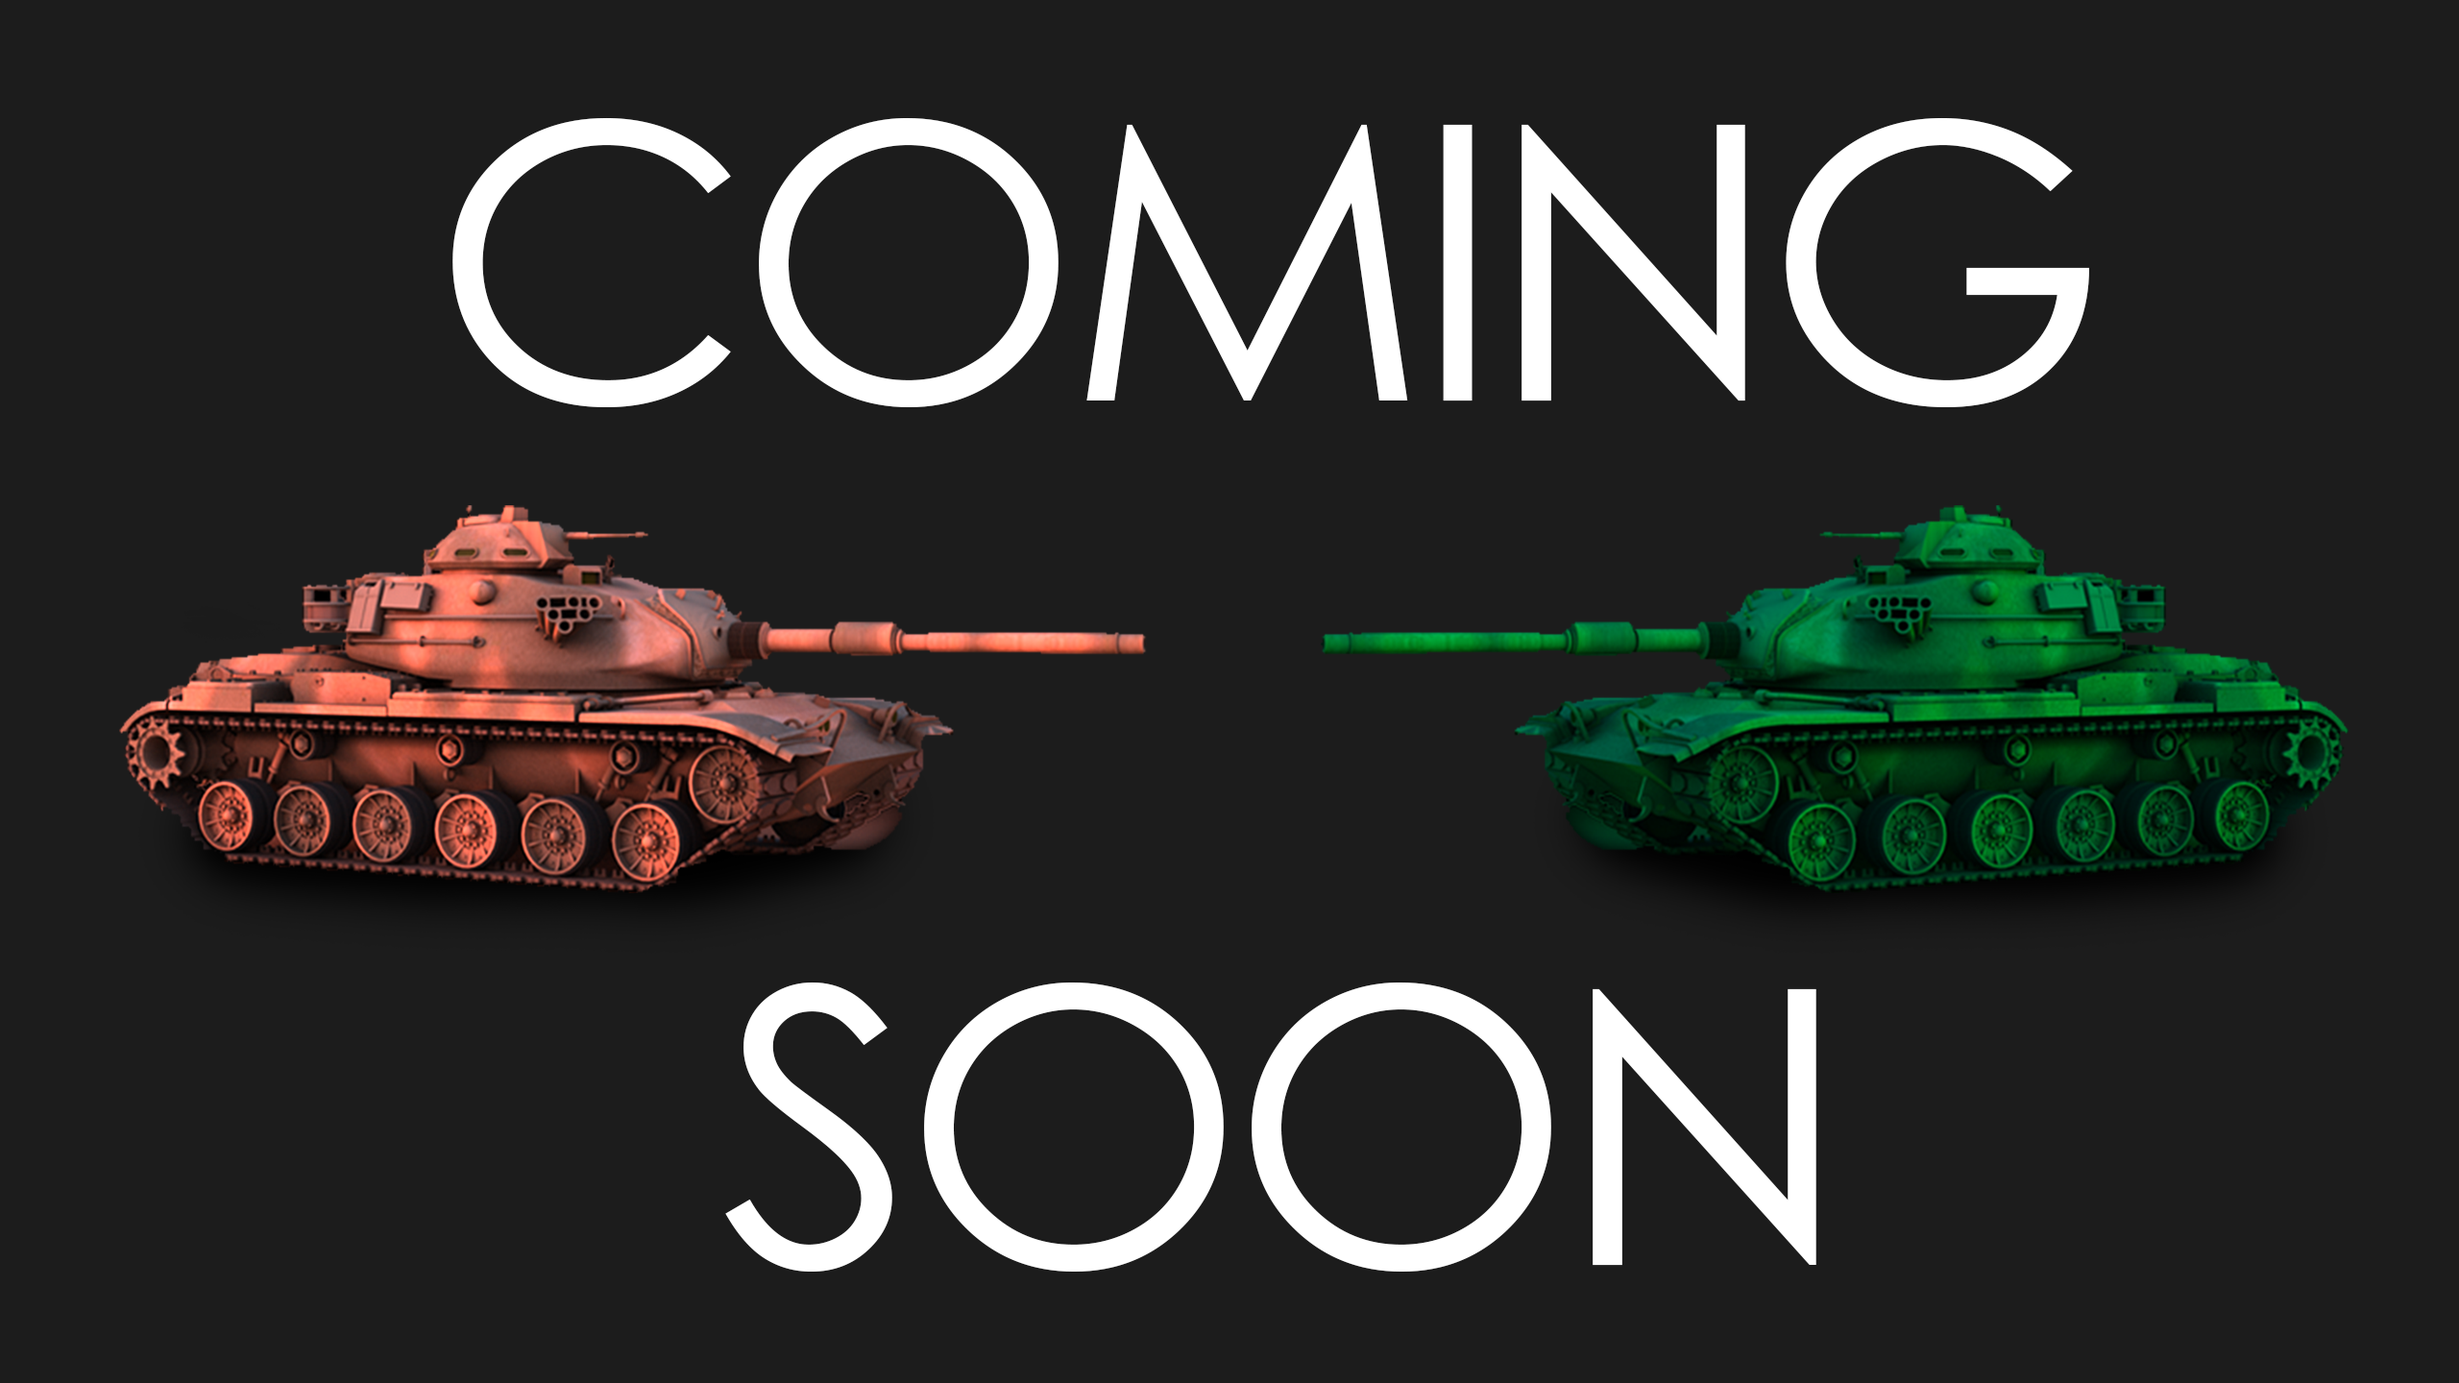
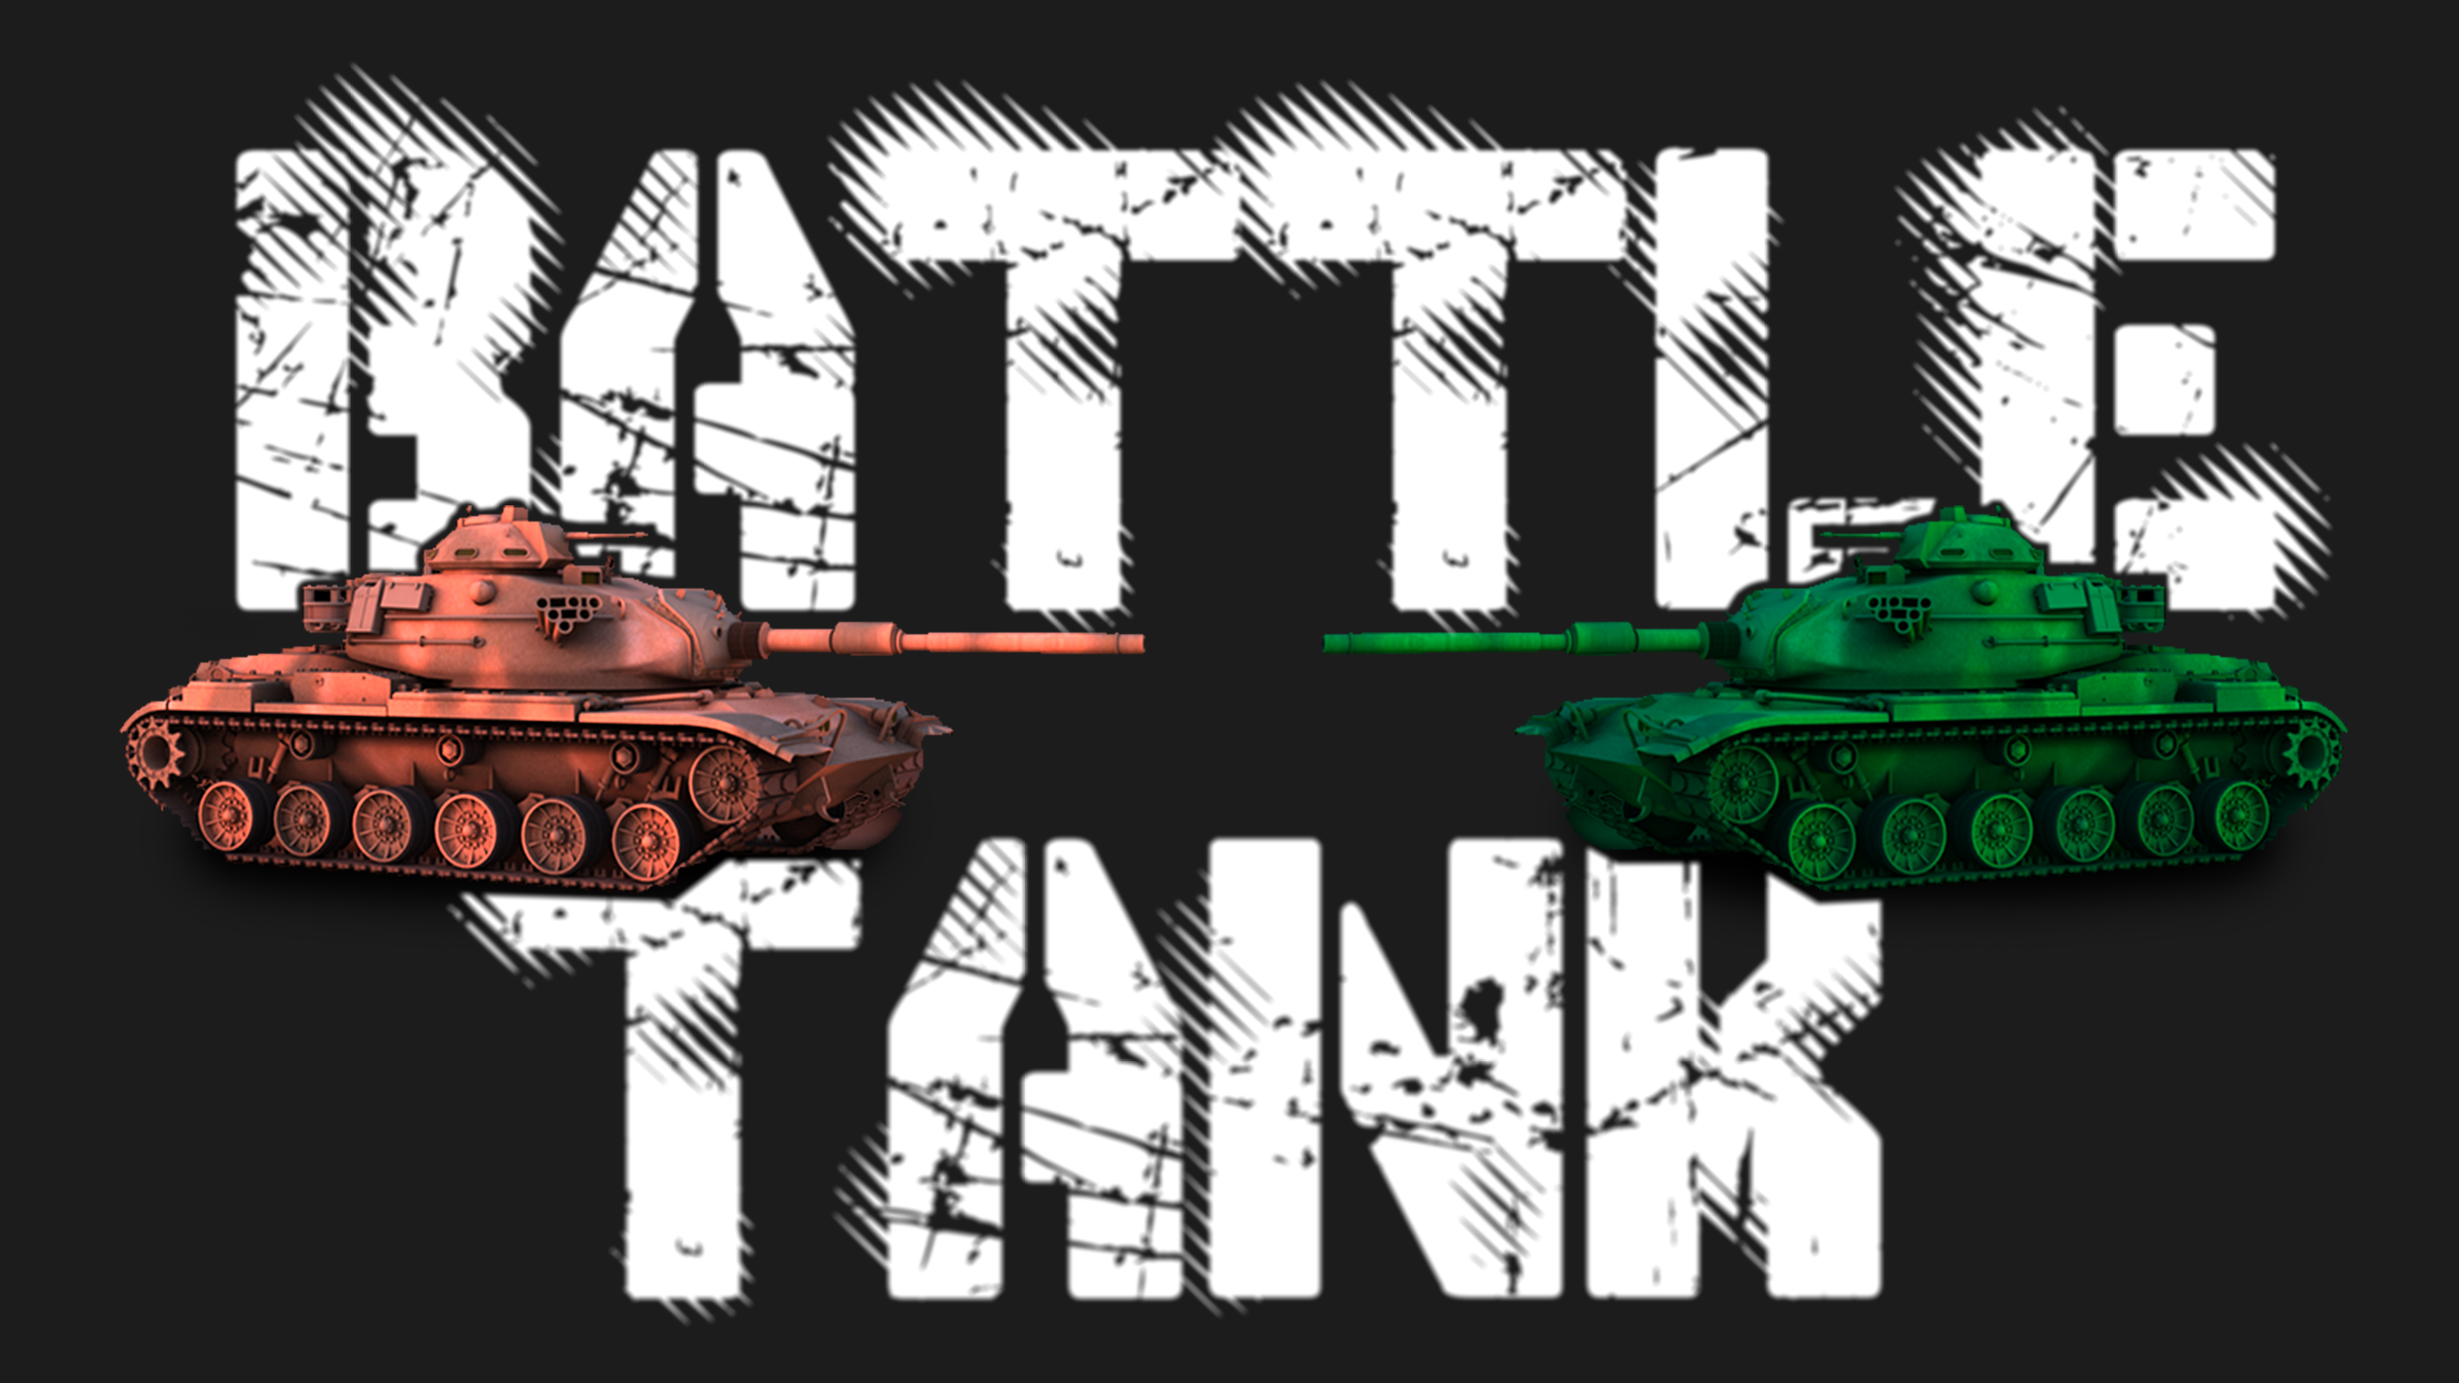
Portfolio updated

Changed region(s): [[0.0938, 0.0312, 0.9688, 0.4688], [0.1875, 0.5938, 0.7812, 0.9688]]

diff --git a/battle-tank.html b/battle-tank.html
@@ -5,7 +5,7 @@
         <meta name="viewport" content="width=device-width, initial-scale=1, shrink-to-fit=no">
         <meta name="description" content="Cesar Molto Morilla porfolio">
         <meta name="author" content="Cesar Molto Morilla">
-        <title>C&eacute;sar Molt&oacute; Morilla | Project Starfall</title>
+        <title>C&eacute;sar Molt&oacute; Morilla | Battle Tank</title>
 
         <!--Bootstrap core CSS -->
         <link href="vendor/bootstrap/css/bootstrap.css" rel="stylesheet">
@@ -55,32 +55,35 @@
 	    <div class="row align-items-center no-gutters my-4 mb-lg-4">
           <div class="col-xl-12">
             <div class="featured-text text-center text-lg-left pl-3 mt-5 pt-5 mb-2">
-              <h3>PROJECT STARFALL <!--<small>(IN DEVELOPMENT)</small>--></h3>
+              <h3>BATTLE TANK <!--<small>(IN DEVELOPMENT)</small>--></h3>
             </div>
           </div>
         </div>
 	
         <div class="row justify-content-center m-0">
 		  <div class="col-lg-7 my-auto">
-			<video poster="images/ProjectStarfall/Main.png" controls>
-				<source src="videos/ProjectStarfall/Video.mp4" type="video/mp4">
+			<video poster="images/BattleTank/Main.png" style="border: 2px solid white;">
+				<source src="" type="video/mp4">
 			</video>
 			<div class="row justify-content-center m-0 p-0 mb-3">
 				<div class="col-lg-icon icon-col">
-					<img class="img-fluid icon" src="images/Icons/Unity.png" alt="Unity Engine">
+					<img class="img-fluid icon" src="images/Icons/Unreal.png" alt="Unreal Engine">
 				</div>
 				<div class="col-lg-icon icon-col">
-					<img class="img-fluid icon" src="images/Icons/CSharp.png" alt="C#">
+					<img class="img-fluid icon" src="images/Icons/C++.png" alt="C++">
 				</div>
 				<div class="col-lg-icon icon-col">
 					<img class="img-fluid icon" src="images/Icons/Photoshop.png" alt="Photoshop CC">
-				</div>
+        </div>
+        <div class="col-lg-icon icon-col">
+          <img class="img-fluid icon" src="images/Icons/Blender.png" alt="Blender">
+        </div>
 			</div>
           </div>
 
           <div class="col-lg-5">
 			<div class="project-text w-100 text-center text-lg-left">
-				<p class="text-justify text-white-75 m-0">Project Starfall is a 2D arcade endless game where you have to dodge the different obstacles, such as asteroids or enemy lasers, by moving the main character around the map.<br><br><b class="text-orange">Platform:</b> Browser<br><b class="text-orange">Team size:</b> 1 (myself)<br><b class="text-orange">Project length:</b> 2 months<br><br><br><a class="download-play-button" href="https://staler.itch.io/project-starfall" target="_blank">PLAY IN BROWSER</a></p>
+				<p class="text-justify text-white-75 m-0">Battle Tank is an open world head-to-head tank fight game with AI controlled enemies and advanced control system created in Unreal Engine 4.<br><br> Will you be able to defeat the enemy tanks? In order to do so you will have to wisely use the strategical spots and resources distributed around the world.<br><br><b class="text-orange">Platform:</b> PC | Console<br><b class="text-orange">Team size:</b> 1 (myself)<br><b class="text-orange">Project length:</b> 2 months<br><br><br><a class="download-play-button" href="https://github.com/My-Unreal-Projects/Battle-Tank" target="_blank">SOURCE CODE</a></p>
 			</div>
           </div>
         </div>
@@ -103,7 +106,10 @@
 
 		<div class="row align-items-center no-gutters mb-lg-2">
           <div class="col-xl-12">
-				<p class="text-justify text-white-75">This project started as a challenge to myself by making a simple and funny video game from scratch in my spare time, and explore really interesting concepts such as the game feel or the juice.<br><br> The original idea of Project Starfall was inspired by the <a href="https://ldjam.com/" target="_blank">LUDUM DARE</a> games of <a href="https://www.youtube.com/watch?v=XldCg9sQYx0" target="_blank">Brakeys (LUDUM DARE 38)</a> and <a href="https://www.youtube.com/watch?v=S5Dq9t3Y5n0" target="_blank">Blackthornprod (LUDUM DARE 40)</a>.<br><br> I'm developing Project Starfall because I want the people to feel like they are playing an old arcade game but different thanks to my personal touch. Because of those reasons I'm drawing the Project Starfall assets with a pixel art style, and I'm trying to add my personal touch using a glow filter that makes the game feel really different and impressive.</p>
+            <p class="text-justify text-white-75">Battle Tank is a project in which I had the opportunity to put in practice all the learning that I got from taking part several times in the <a href="https://weeklygamejam.itch.io/" target="_blank">Weekly Game Jam</a> using <a href="https://www.unrealengine.com/" target="_blank">Unreal Engine 4</a> and from finishing the UE4 C++ Developer Course created by the <a href="https://www.gamedev.tv/" target="_blank">GameDev</a> team in collaboration with <a href="https://www.epicgames.com/" target="_blank">Epic Games.</a><br><br> 
+              During the development of this game, I learned the basics for the creation of 3D action games such as physics simulation, trajectory prediction, and input control. Moreover, I could expand my C++ programming learning some of the best architectures for game creation.<br><br> 
+              My goal with this project was to create a game with an advanced input control system with a fast reaction to the request of the players and a challenging AI system.
+            </p>
           </div>
         </div>
       </div>
@@ -122,56 +128,56 @@
         </div>
 		<div class="row align-items-center no-gutters mb-lg-2">
           <div class="col-xl-12">
-			<p class="text-white-75">- Created all the art assets.<br><br>- Created all the sound effects (but the music).<br><br>- Scripted the whole game. <br><br>- Created all the game scenes. <br><br>- Created a glow shader. <br><br>- Designed the UI and gameplay.</p>
+			<p class="text-white-75">- Coded the control system of the player and the enemy tanks.<br><br>- Coded the AI system of the enemies (Pathfinding + FSM). <br><br>- Coded the physics and the collision management. <br><br>- Created a Low Poly Shader for the battleground. <br><br>- Modeled some of the 3D assets. <br><br>- Created some of the textures. </p>
           </div>
         </div>
       </div>
     </section>
 
 	<!-- Screenshots & GIF's Section -->
-    <section id="screenshots" class="screenshots-section bg-black pb-0">
-      <div class="container">
+    <!--<section id="screenshots" class="screenshots-section bg-black pb-0">
+      <div class="container">-->
         <!-- Featured Project Row -->
-        <div class="row align-items-center no-gutters my-4 mb-lg-5">
+        <!--<div class="row align-items-center no-gutters my-4 mb-lg-5">
           <div class="col-xl-12">
             <div class="featured-text text-center text-lg-left pr-0">
               <h3>SCREENSHOTS & GIF's</h3>
             </div>
           </div>
-        </div>
+        </div>-->
 
         <!-- Screenshots One Row -->
-        <div class="row justify-content-center mx-auto pb-0 mb-1">
+        <!--<div class="row justify-content-center mx-auto pb-0 mb-1">
           <div class="col-lg-6 mb-4">
 			<img class="img-fluid" src="images/ProjectStarfall/Gameplay.gif" alt="Gameplay">
           </div>
           <div class="col-lg-6 mb-4">
 			<img class="img-fluid" src="images/ProjectStarfall/MainMenu.gif" alt="Main Menu">
           </div>
-        </div>
+        </div>-->
 
 		<!-- Screenshots Two Row -->
-        <div class="row justify-content-center mx-auto pb-0 mb-1">
+        <!--<div class="row justify-content-center mx-auto pb-0 mb-1">
           <div class="col-lg-6 mb-4">
 			<img class="img-fluid" src="images/ProjectStarfall/Enemy.gif" alt="Enemy">
           </div>
           <div class="col-lg-6 mb-4">
 			<img class="img-fluid" src="images/ProjectStarfall/Asteroids.gif" alt="Asteroids">
           </div>
-        </div>
+        </div>-->
 	
 		<!-- Screenshots Three Row -->
-        <div class="row justify-content-center mx-auto pb-0 mb-1">
+        <!--<div class="row justify-content-center mx-auto pb-0 mb-1">
           <div class="col-lg-6 mb-4">
 			<img class="img-fluid" src="images/ProjectStarfall/Crystals.gif" alt="Crystals">
-          </div>
+          </div>-->
           <!--<div class="col-lg-6 mb-4">
 			<img class="img-fluid" src="images/Project Starfall/Asteroids.gif" alt="Enemy">
-          </div>-->
+          </div>
         </div>
 
       </div>
-    </section>
+    </section>-->
 
     <!-- Footer -->
     <footer class="bg-black small text-center text-white-75 pt-8 pb-2">

diff --git a/index.html b/index.html
@@ -126,7 +126,7 @@
                 <div class="row justify-content-center no-gutters mb-3">
                     <div class="col-xl-6 mb-3">
                         <video poster="images/BattleTank/Main.png" style="border: 2px solid white;">
-                            <source src="videos/RoomMaker/Video.mp4" type="video/mp4">
+                            <source src="" type="video/mp4">
                         </video>
                         <div class="row justify-content-center m-0 p-0">
                             <div class="col-lg-icon icon-col">
@@ -143,17 +143,55 @@
                             </div>
                         </div>
                     </div>
-                    <div class="col-xl-6 mt-5">
+                    <div class="col-xl-6 mt-4">
                         <div class="bg-black text-center project">
                             <div class="d-flex h-100">
                                 <div class="project-text my-auto text-center pt-0">
                                     <h4 class="text-orange px-0 py-2">BATTLE TANK</h4>
-                                    <p class="mb-5 text-justify text-white-75">Battle Tank is an open world head-to-head tank fight game with AI controlled enemies and advanced control system created in Unreal Engine 4.
+                                    <p class="mb-5 text-justify text-white-75">Battle Tank is an open world head-to-head tank fight game with AI controlled enemies and advanced control system.
                                         <br>
                                         <br>
-                                        Will you be able to defeat the enemy tank? In order to do so you will have to wisely use the strategical spots and resources distributed around the world.
+                                        Will you be able to defeat the enemy tanks? In order to do so you will have to wisely use the strategical spots and resources distributed around the world.
                                     </p>
-                                    <!--<a class="download-play-button download" href="https://github.com/CesarMolto/cesarmolto.github.io/releases/download/1.13/RooMMaker_Setup.exe">DOWNLOAD <small>(WINDOWS)</small></a>-->
+                                    <a class="download-play-button download" href="https://github.com/My-Unreal-Projects/Battle-Tank" target="_blank">SOURCE CODE</a>-->
+                                    <a href="battle-tank.html" class="see-more-button">SEE MORE . . .</a>
+                                </div>
+                            </div>
+                        </div>
+                    </div>
+                </div>
+                <!-- Project Two Row -->
+                <div class="row justify-content-center no-gutters mb-3">
+                    <div class="col-xl-6 mb-3">
+                        <video poster="images/Escape/Main.png" style="border: 2px solid white;">
+                            <source src="" type="video/mp4">
+                        </video>
+                        <div class="row justify-content-center m-0 p-0">
+                            <div class="col-lg-icon icon-col">
+                                <img class="img-fluid icon" src="images/Icons/Unreal.png" alt="Unity Engine">
+                            </div>
+                            <div class="col-lg-icon icon-col">
+                                <img class="img-fluid icon" src="images/Icons/C++.png" alt="C++">
+                            </div>
+                            <div class="col-lg-icon icon-col">
+                                <img class="img-fluid icon" src="images/Icons/Photoshop.png" alt="Photoshop CC">
+                            </div>
+                            <div class="col-lg-icon icon-col">
+                                <img class="img-fluid icon" src="images/Icons/Blender.png" alt="Blender">
+                            </div>
+                        </div>
+                    </div>
+                    <div class="col-xl-6 order-xl-first mt-4">
+                        <div class="bg-black text-center project">
+                            <div class="d-flex h-100">
+                                <div class="project-text my-auto text-center pt-0">
+                                    <h4 class="text-orange px-0 py-2">ESCAPE <small>(IN DEVELOPMENT)</small></h4>
+                                    <p class="mb-5 text-justify text-white-75">Escape is a simple first person game where the main goal is to get the golden gargoyle and escape from the dangerous dangeon avoiding the different traps waiting for you.
+                                        <br>
+                                        <br>
+                                        In this project I am specially focusing on the learning of level building, lighning and the eficient combination of C++ with Blueprint within the game engine UE4.
+                                    </p>
+                                    <a class="download-play-button download" href="https://github.com/My-Unreal-Projects/Building-Escape" target="_blank">SOURCE CODE</a>-->
                                     <a class="see-more-button btn-disabled">SEE MORE . . .</a>
                                 </div>
                             </div>

diff --git a/css/style.css b/css/style.css
@@ -198,7 +198,7 @@ video {
 
 .icon-col {
 	padding: 0;
-	margin: 1rem 2rem 0;
+	margin: 1rem 1.8rem 0;
 }
 
 /*GAMES SECTION*/
